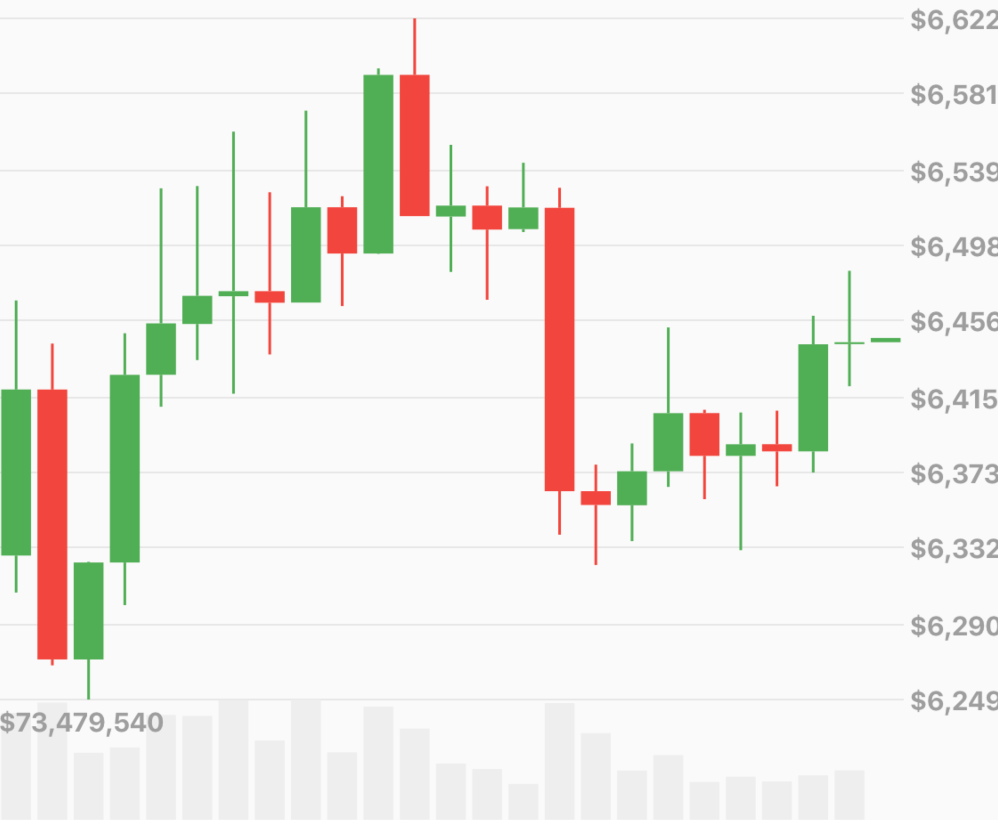
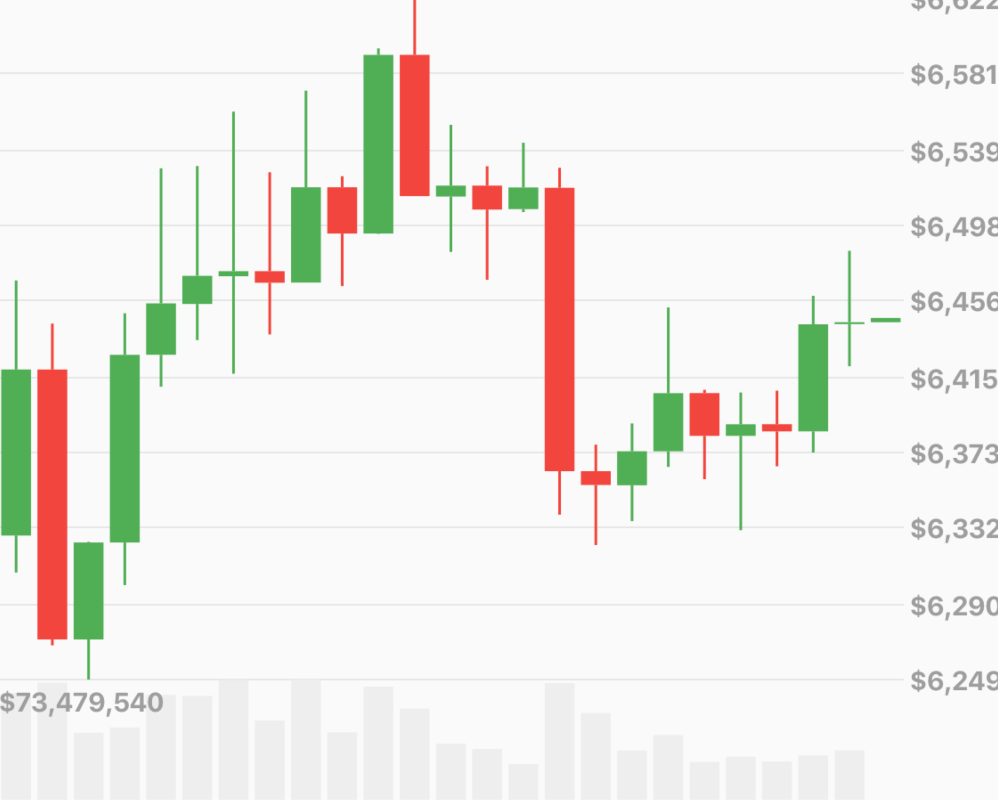
update doc on paints + dark screenshot

diff --git a/README.md b/README.md
@@ -19,9 +19,9 @@ Install for Flutter [with pub](https://pub.dartlang.org/packages/flutter_candles
 | gridLineColor      | Default `Colors.grey`. Color of grid lines                                |
 | gridLineLabelColor | Default `Colors.grey`. Color of grid line labels                          |
 | labelPrefix        | Default `"$"`. Prefix before grid line labels.                            |
-| increasePaint      | Default `Colors.green`. Color of increasing candles.                      |
-| decreasePaint      | Default `Colors.red`. Color of decreasing candles.                        |
-| volumePaint        | Default `candlestick color`. Color of volume bars, optional               |
+| increasePaint      | Default `green stroke`. Paint of increasing candles.                      |
+| decreasePaint      | Default `red fill`. Paint of decreasing candles.                          |
+| volumePaint        | Default `corresponding candlestick color`. Paint of volume bars           |
 
 ## Examples
 
@@ -85,7 +85,7 @@ new OHLCVGraph(
 )
 ```
 
-<img src="screenshots/custom_colors.png" width="50%">
+<img src="screenshots/custom_colors.png" width="50%"><img src="screenshots/custom_colors_dark.png" width="50%">
 
 
 ### Full App Example
